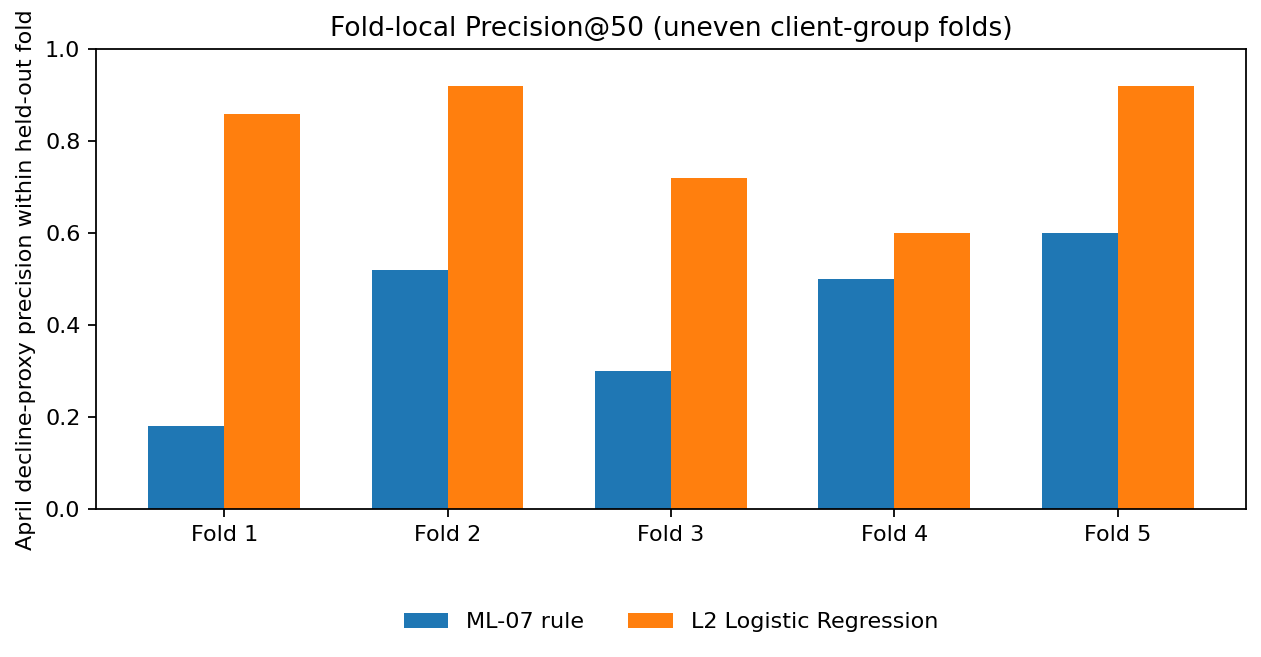
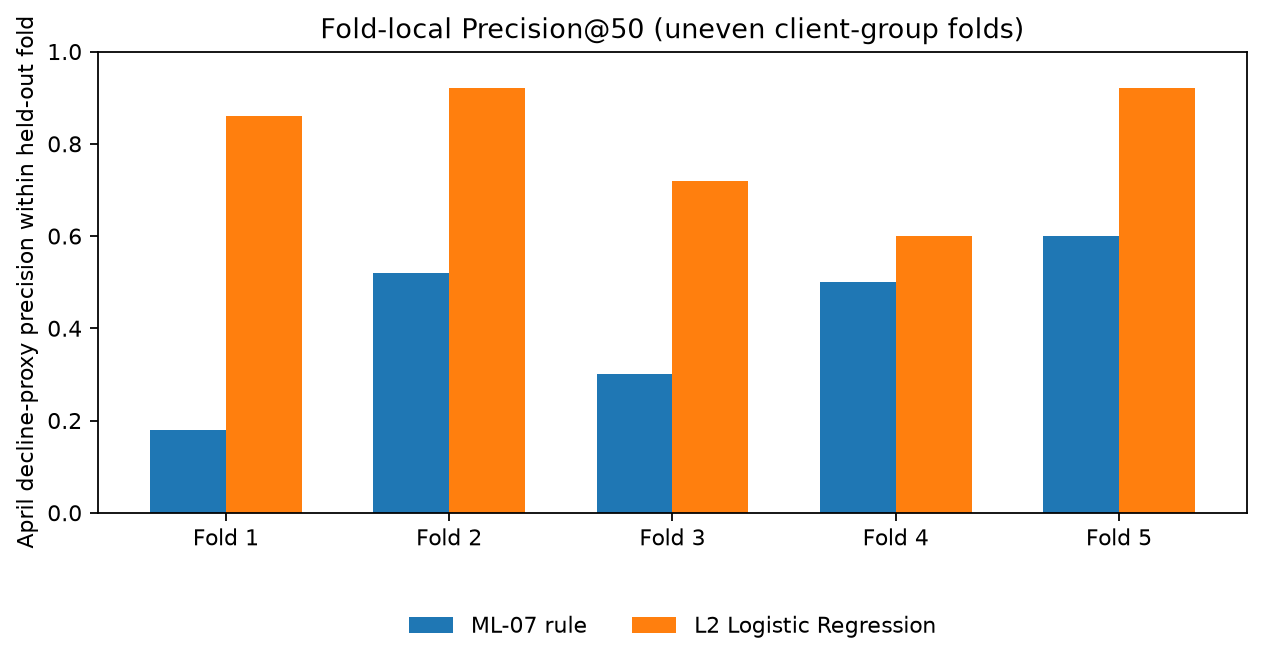
Align ML-12 paper and showcase materials

diff --git a/docs/index.html b/docs/index.html
@@ -112,12 +112,12 @@
   <main id="main"><article>
     <section id="abstract" aria-labelledby="abstract-title">
       <div class="abstract"><div class="abstract-label" id="abstract-title">Abstract · five sentences</div>
-      <p>We ask whether a learned ranking can order eligible search-content items for human review differently from a simple visibility rule. We use 95,633 paired page-client items from warehouse build v20260703 and evaluate the 39,545 items passing the ML-07 gate against an April impression-decline proxy. We compare an L2 Logistic Regression using March-only features with an ML-07 rule based on March impressions in five client-grouped folds. Fold-macro Precision@50 was 0.804 for the model and 0.420 for the rule, a 0.384 absolute difference or about 1.9 times the rule, and the model was higher in all five folds. This is a strong result against this specified rule on one selected retrospective cohort; it does not establish future-cohort performance, causal refresh impact, or traffic recovery after an edit.</p></div>
+      <p>FlyRank’s Lane 2 content-opportunity problem is how to triage eligible pages with meaningful impressions but low click-through for human review. Using 95,633 paired page-client items from warehouse build v20260703, we evaluate the 39,545 items passing the ML-07 gate against an April impression-decline proxy. We compare an L2 Logistic Regression using March-only features with an ML-07 rule based on March impressions in five client-grouped folds. Fold-macro Precision@50 was 0.804 for the model and 0.420 for the rule, a 0.384 absolute difference or about 1.9 times the rule, and the model was higher in all five folds. This is a strong result against this specified rule on one selected retrospective cohort; it does not establish future-cohort performance, causal refresh impact, or traffic recovery after an edit.</p></div>
     </section>
 
     <section id="problem"><h2>1. Introduction and decision</h2>
-      <p>An editor with limited review time needs a sensible first pass through a large set of pages with weak click-through rates. This study asks whether a compact model can rank a narrowly selected pool for review more usefully than a transparent rule that orders candidates by March impressions.</p>
-      <p>The decision supported is <em>which eligible page-client item to inspect first</em>. It is not whether a page is stale, whether it needs a refresh, or whether an edit will improve search traffic. The target records an observed April impression change; it is not an intervention outcome.</p>
+      <p>FlyRank’s Lane 2 content-opportunity problem is turning Search Console signals into a practical editorial review order: among pages with at least 500 March impressions, positions from 1 to 20, and CTR below 0.5%, which should someone inspect first for snippet fit, query-page fit, or internal discovery? With limited review time, a ranking may help a team choose where to look first, while low CTR or an observed impression decline alone cannot diagnose stale content.</p>
+      <p>This case study compares a compact model with the transparent ML-07 rule that orders those eligible items by March impressions. The decision supported is <em>which eligible page-client item to inspect first</em>. It is not whether a page is stale, whether it needs a refresh, or whether an edit will improve search traffic. The target records an observed April impression change; it is not an intervention outcome.</p>
     </section>
 
     <section id="data"><h2>2. Data</h2>

diff --git a/work/demo_outline.md b/work/demo_outline.md
@@ -1,32 +1,15 @@
-# ML-11 case-study demo outline
+# ML-12 demo outline
 
-- **Target length:** 5 minutes
-- **Audience:** internship reviewers, hiring teams, or content and SEO practitioners
-- **Live case study:** [Can a grouped model improve search-content review ranking?](https://divyam-chauhan.github.io/FL_Machine_learning/)
+## ML-12 Week 8 showcase: 5-minute demo outline
 
-## Run of show
+**Case study:** [Live paper](https://divyam-chauhan.github.io/FL_Machine_learning/)
+**Question:** For FlyRank's Lane 2 content-opportunity work, can a ranking help reviewers triage eligible high-impression, low-CTR pages more effectively than the ML-07 March-impressions rule?
 
-| Time | Show | Talk track |
-|---|---|---|
-| 0:00–0:40 | Paper title, question, and abstract | “I tested whether a March-feature ranking could prioritize human review better than the ML-07 March-impressions rule for a selected set of low-CTR pages.” State that the target is a retrospective April impression-decline proxy. |
-| 0:40–1:20 | Data and cohort timing | Name warehouse build `v20260703` and table `fact_content_daily_performance`. Explain the 95,633 paired items and 39,545 ML-07 candidates. Call out that at least 20 GSC-available days in both months are required; April coverage defines cohort membership, so this exact cohort was not selectable at a March-time decision point. |
-| 1:20–2:00 | Methodology and evaluation | Contrast L2 Logistic Regression with the specified rule on the same candidate pool. Explain the five client-grouped folds and that metrics are calculated inside each held-out fold because each fold has a separately fitted model. |
-| 2:00–3:00 | P@50 chart and W07 results table | Lead with fold-macro P@50 of 0.804 vs. 0.420: a 0.384 absolute difference, about 1.9× the rule, with the model higher in every fold. Then note fold-macro ROC-AUC 0.636 vs. 0.438 and average precision 0.655 vs. 0.501. Identify this as a strong comparison against this particular rule on this selected retrospective cohort. |
-| 3:00–3:35 | Fold design and separate W06 result | Point out that folds are uneven and two hold out one client each. If asked about W06, use its separate single-client-held-out diagnostic values; do not combine them with W07. |
-| 3:35–4:20 | Limitations and recommendations | Explain that the target is not refresh success, the score is not calibrated confidence, and available fields do not establish page staleness. The ranking supports human review; it does not measure causal refresh impact, future-cohort performance, or traffic recovery. Briefly show the ranked aggregate review archetypes. |
-| 4:20–5:00 | Reproducibility and close | Open the linked [Python 3.11 capstone notebook](https://github.com/Divyam-Chauhan/FL_Machine_learning/blob/main/work/notebooks/capstone.ipynb) and [aggregate report](https://github.com/Divyam-Chauhan/FL_Machine_learning/blob/main/work/capstone_report.md). Close with the decision supported: which eligible item a human might inspect first, not whether or how to edit it. |
+- **0:00-0:45 | Question and decision.** Frame the practical problem: editors need to decide which eligible search-content items to inspect first for snippet fit, query-page fit, or internal discovery. The output is a review order, not an edit instruction.
+- **0:45-1:45 | Method.** Explain the 39,545-item ML-07 pool, the March-only L2 Logistic Regression, the March-impressions rule, and five client-grouped folds. Metrics are computed within each held-out fold because each fold uses a separately fitted model. Mention that April coverage helps define the evaluated cohort, so it was not selectable at a March-time decision point.
+- **1:45-2:30 | One chart.** Show `work/figures/capstone_fold_precision_at_50.png`. Read the five fold-local P@50 pairs and point out that the model is higher in every fold; do not display or share any action-queue rows.
+- **2:30-3:40 | One honest result.** Fold-macro P@50 is 0.804 for the model vs. 0.420 for this rule, a 0.384 absolute difference (about 1.9x). This is a strong result against this particular rule on one selected retrospective cohort. The folds are uneven, including two that hold out one client each; the metrics are descriptive and do not establish future-cohort performance or refresh impact.
+- **3:40-4:35 | One recommendation.** First verify measurement coverage for the 1,201 partial-observation candidates before treating them as content opportunities or editing. For other candidates, inspect the current page and query context before deciding whether a change is appropriate.
+- **4:35-5:00 | Close.** Re-state the human-review use and link the [paper](https://divyam-chauhan.github.io/FL_Machine_learning/) and [executed capstone notebook](https://github.com/Divyam-Chauhan/FL_Machine_learning/blob/main/work/notebooks/capstone.ipynb).
 
-## Demo safety
-
-- Keep the demo on the deployed paper, aggregate charts and tables, and aggregate-only notebook outputs.
-- Do not show or distribute action-queue rows, join IDs, URLs, titles, client names, domains, raw queries, or credentials. Do not open `.env` or expose a Hugging Face token.
-- Do not describe the analysis as a live March queue or early-warning test. April availability is a cohort-selection limitation, not a model feature or label leakage through model inputs.
-- Present W07 fold-local metrics as the main comparison. Do not pool scores from separately fitted folds or blend W06 and W07 results.
-
-## Likely questions
-
-**Does the score mean a page is stale or should be refreshed?** No. Page age and refresh timestamps are unavailable, and the score is not calibrated confidence or expected refresh lift.
-
-**Does the result show that machine learning always beats rules?** No. It is a strong result against this specified ML-07 rule on one gate-selected retrospective cohort.
-
-**Does the result show a refresh will recover traffic?** No. The observed April decline proxy is not a refresh outcome, and this analysis does not evaluate an intervention.
+**Demo safety:** Keep the presentation to the public paper and aggregate charts/tables. Never show queue rows, join IDs, URLs, titles, client names, domains, raw queries, or credentials. Do not call this a live March queue or an early-warning test; do not interpret the score as calibrated confidence, page staleness, or expected refresh lift.

diff --git a/work/shareable_cut_social.md b/work/shareable_cut_social.md
@@ -1,9 +1,3 @@
 # Shareable cut: social post
 
-Could a model help decide which eligible search-content items to review first?
-
-On 39,545 ML-07-eligible page-client items, an L2 Logistic Regression ranked the observed April impression-decline proxy better than the specified March-impressions rule in five client-grouped folds. Fold-macro Precision@50 was **0.804 vs. 0.420**—a 0.384 absolute difference, or about 1.9× the rule—with the model higher in all five folds.
-
-This is one retrospective March/April cohort, selected in part using April GSC coverage. It is decision support for human review, not a live March queue, a stale-page detector, or evidence that refreshing a page restores traffic.
-
-Read the [case study](https://divyam-chauhan.github.io/FL_Machine_learning/).
+FlyRank's Lane 2 content-opportunity problem is deciding which high-impression, low-CTR pages deserve a human's next look. I compared an L2 Logistic Regression using March-only features with the transparent ML-07 March-impressions rule across five client-grouped folds, calculating each metric within its held-out fold. On the 39,545-item selected pool, fold-macro P@50 was 0.804 vs. 0.420 (a 0.384 absolute difference, about 1.9x), and the model was higher in all five folds. This is one retrospective March/April cohort, selected partly using April GSC coverage; it does not show that a page is stale or that a refresh recovers traffic. [Read the case study](https://divyam-chauhan.github.io/FL_Machine_learning/).

diff --git a/work/shareable_cut_employer.md b/work/shareable_cut_employer.md
@@ -1,7 +1,6 @@
 # Shareable cut: employer three-sentence summary
 
-I built a warehouse-based content opportunity ranking with March-only features, a transparent ML-07 baseline, and five client-grouped validation folds over 39,545 eligible candidates.
+I built a content-opportunity review ranking from the gated FlyRank warehouse, comparing March-only L2 Logistic Regression with the ML-07 March-impressions rule on 39,545 eligible page-client items.
+Within-fold macro P@50 was 0.804 vs. 0.420, with the model higher in all five client-grouped folds; macro ROC-AUC was 0.636 vs. 0.438 and average precision was 0.655 vs. 0.501.
 
-Within-fold macro Precision@50 was 0.804 for L2 Logistic Regression versus 0.420 for the rule, with the model higher in all five folds; fold-macro ROC-AUC was 0.636 vs. 0.438 and average precision was 0.655 vs. 0.501.
-
-These are retrospective results from one adjacent-month cohort and support human review only; they do not establish future-cohort performance, page staleness, causal refresh impact, or traffic recovery. [Read the case study](https://divyam-chauhan.github.io/FL_Machine_learning/).
+These results describe one retrospective adjacent-month cohort and support human review only; they do not establish future-cohort performance, page staleness, causal refresh impact, or traffic recovery ([case study](https://divyam-chauhan.github.io/FL_Machine_learning/)).
